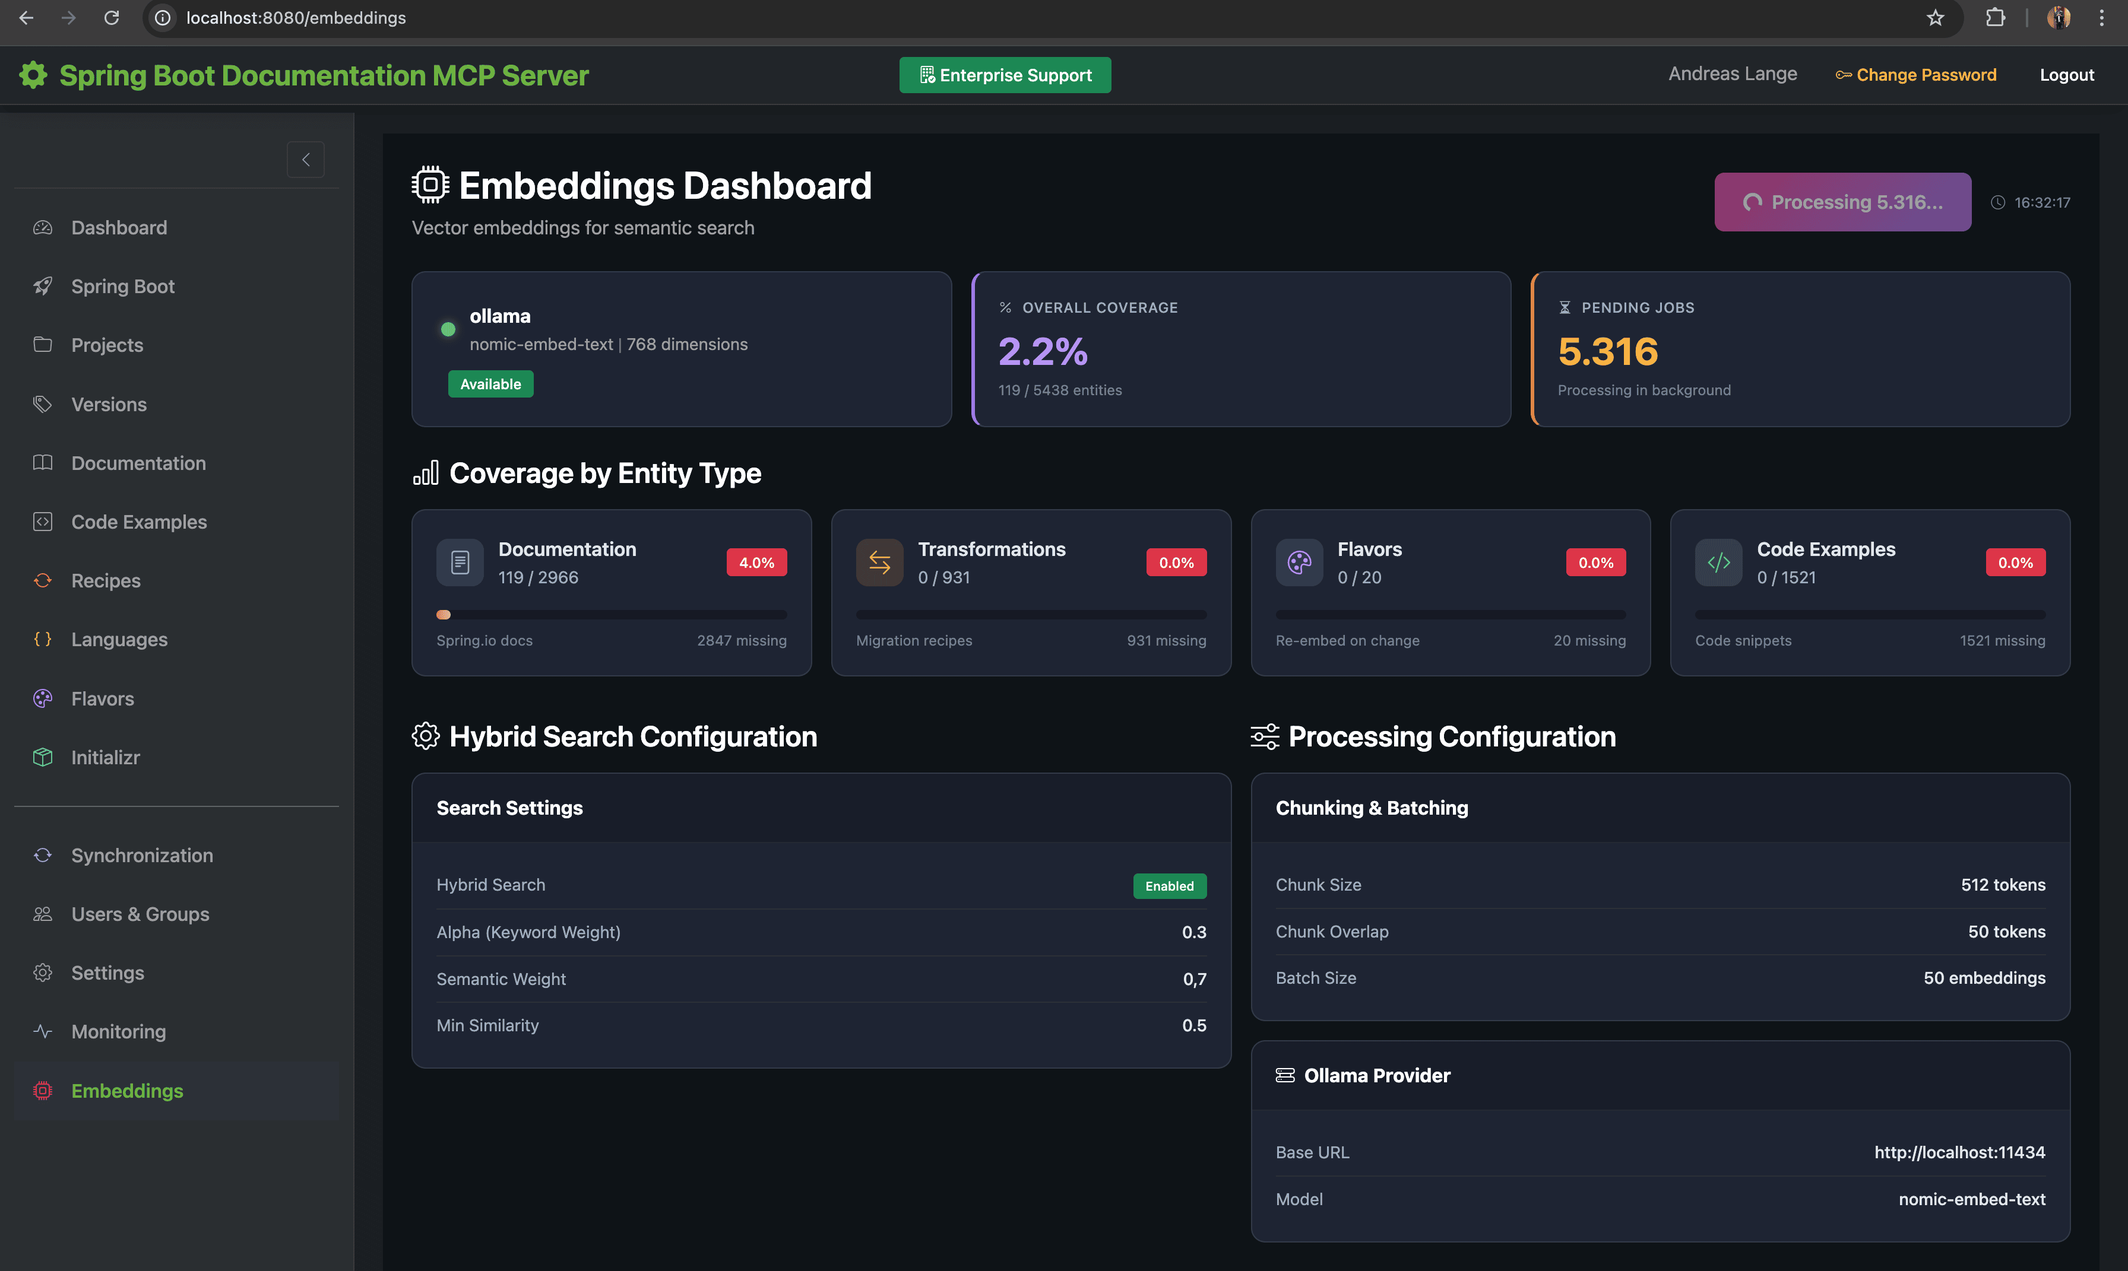
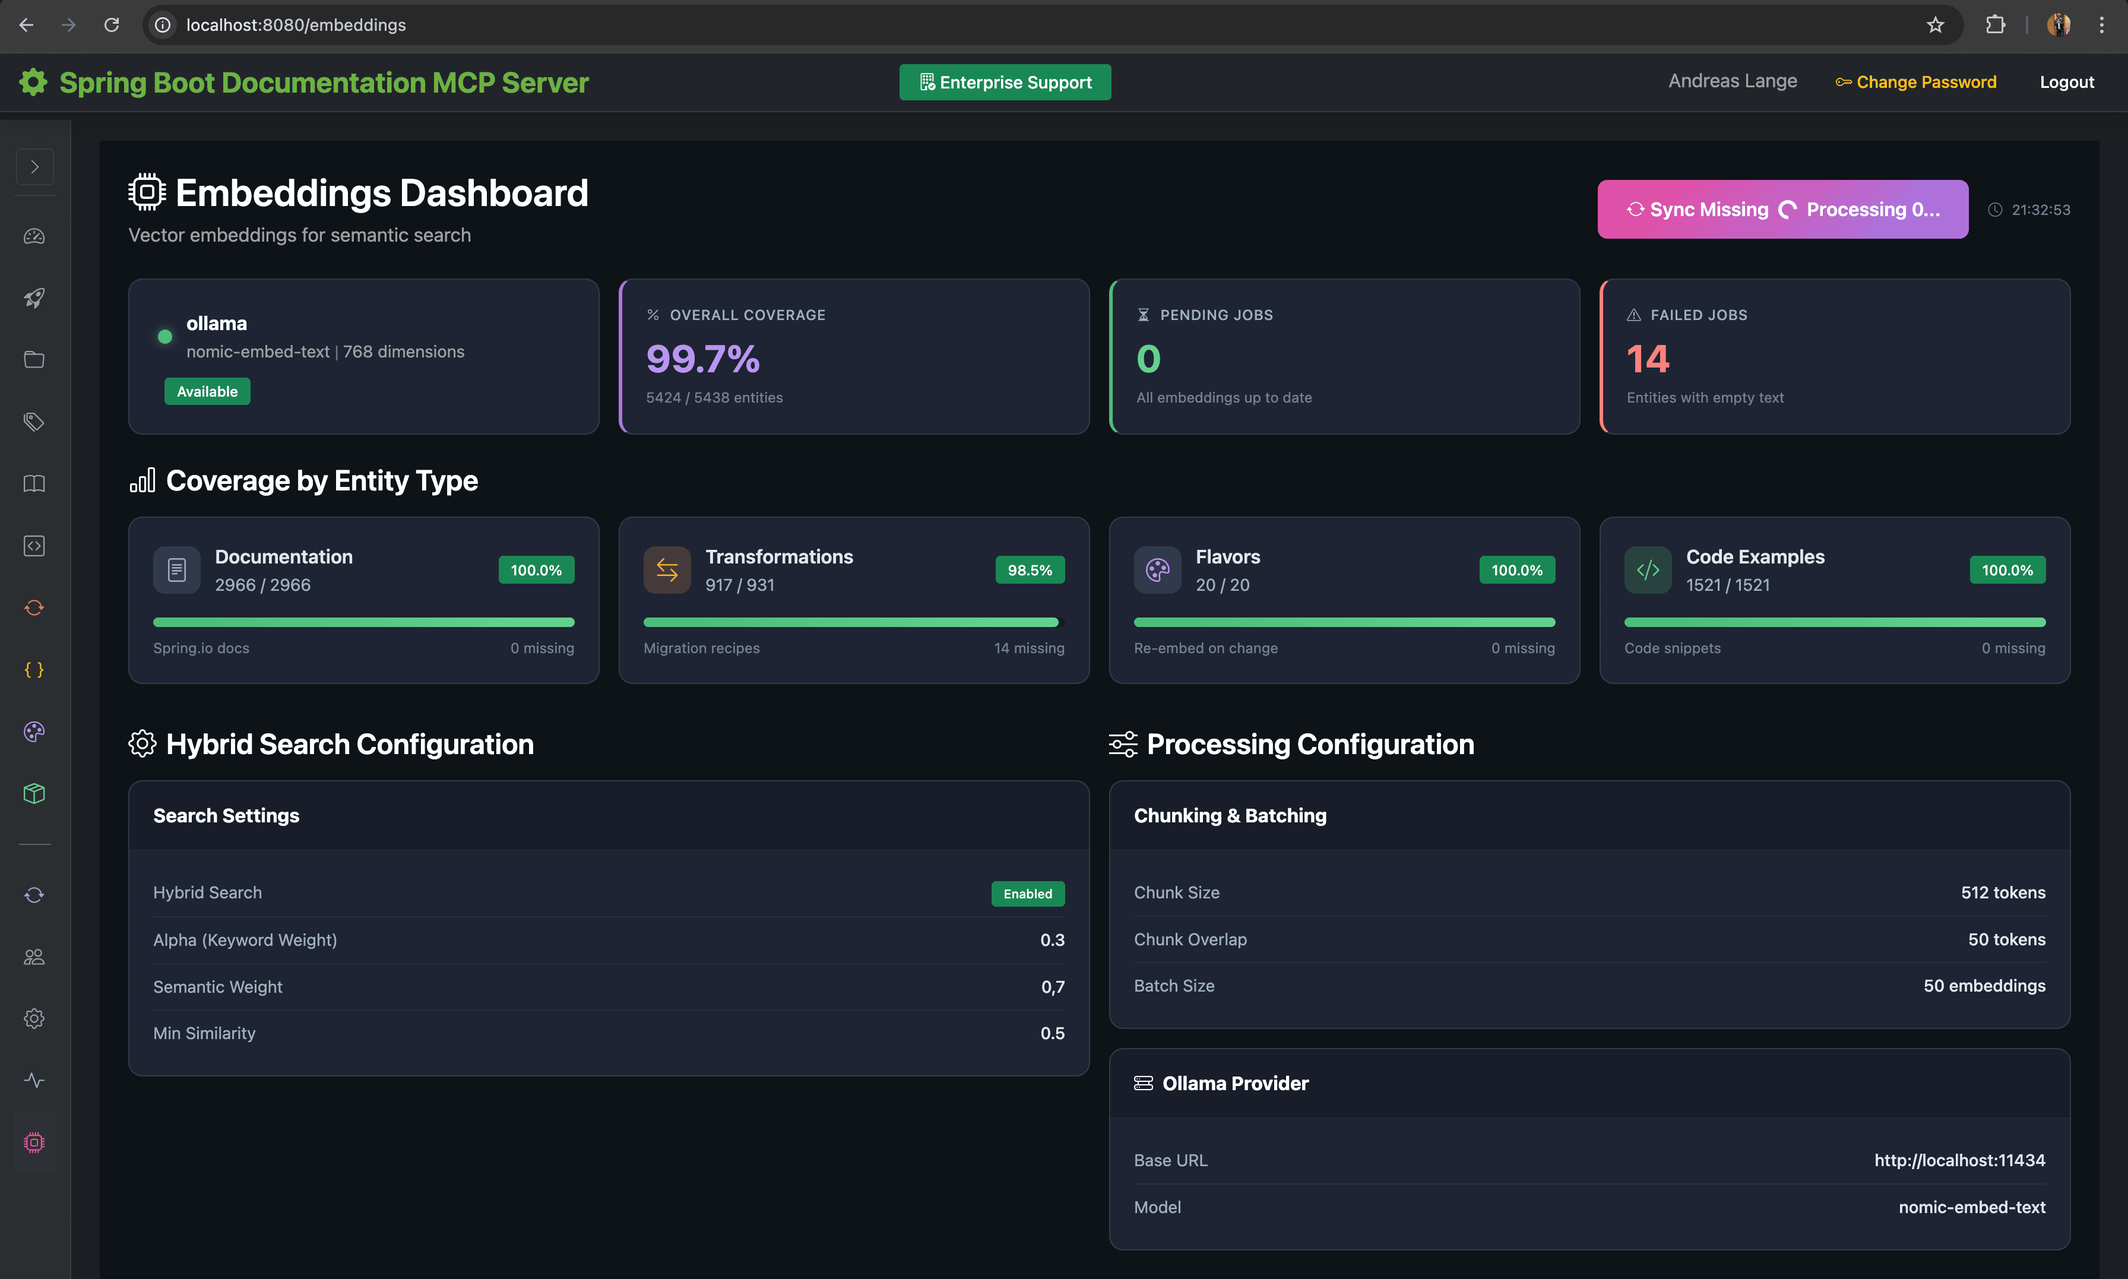
Release 1.6.0 - Semantic Embeddings & Hybrid Search
Major release introducing AI-powered semantic search capabilities with
  pgvector integration for intelligent documentation discovery.

  FEATURES:
  - Semantic Embeddings with pgvector for vector similarity search
  - Hybrid Search combining PostgreSQL full-text (TSVECTOR) with vectors
  - Ollama & OpenAI embedding provider support
  - Embeddings Dashboard with real-time coverage statistics
  - Async Job Processing with per-job transactions for reliability
  - Intelligent Text Chunking for large documentation

  ENHANCEMENTS:
  - searchMigrationKnowledge uses hybrid search when enabled
  - searchFlavors uses hybrid search when enabled
  - searchJavadocs improved multi-word AND logic with relevance scoring
  - Sync page retrigger protection while jobs are running
  - Ollama 120s read timeout for large embedding requests
  - Startup recovery resets interrupted jobs to PENDING

  DATABASE:
  - V21__pgvector_extension.sql: pgvector, embedding columns, job queue
  - V22__pgvector_indexes.sql: HNSW vector similarity indexes

  CONFIGURATION:
  - mcp.features.embeddings.enabled=true to activate
  - Provider: ollama (nomic-embed-text) or openai (text-embedding-3-small)
  - Hybrid alpha: 0.3 = 70% semantic, 30% keyword by default

  🤖 Generated with [Claude Code](https://claude.com/claude-code)

diff --git a/src/main/resources/templates/fragments/sidebar.html b/src/main/resources/templates/fragments/sidebar.html
@@ -12,56 +12,56 @@
         </div>
         <ul class="nav flex-column">
             <li class="nav-item">
-                <a class="nav-link" th:href="@{/dashboard}" th:classappend="${activePage == 'dashboard'} ? 'active' : ''">
+                <a class="nav-link" th:href="@{/dashboard}" th:classappend="${activePage == 'dashboard'} ? 'active' : ''" data-sidebar-tooltip="Dashboard">
                     <i class="bi bi-speedometer2"></i><span class="nav-text">Dashboard</span>
                 </a>
             </li>
             <li class="nav-item">
-                <a class="nav-link" th:href="@{/spring-boot}" th:classappend="${activePage == 'spring-boot'} ? 'active' : ''">
+                <a class="nav-link" th:href="@{/spring-boot}" th:classappend="${activePage == 'spring-boot'} ? 'active' : ''" data-sidebar-tooltip="Spring Boot">
                     <i class="bi bi-rocket-takeoff"></i><span class="nav-text">Spring Boot</span>
                 </a>
             </li>
             <li class="nav-item">
-                <a class="nav-link" th:href="@{/projects}" th:classappend="${activePage == 'projects'} ? 'active' : ''">
+                <a class="nav-link" th:href="@{/projects}" th:classappend="${activePage == 'projects'} ? 'active' : ''" data-sidebar-tooltip="Projects">
                     <i class="bi bi-folder"></i><span class="nav-text">Projects</span>
                 </a>
             </li>
             <li class="nav-item">
-                <a class="nav-link" th:href="@{/versions}" th:classappend="${activePage == 'versions'} ? 'active' : ''">
+                <a class="nav-link" th:href="@{/versions}" th:classappend="${activePage == 'versions'} ? 'active' : ''" data-sidebar-tooltip="Versions">
                     <i class="bi bi-tags"></i><span class="nav-text">Versions</span>
                 </a>
             </li>
             <li class="nav-item">
-                <a class="nav-link" th:href="@{/documentation}" th:classappend="${activePage == 'documentation'} ? 'active' : ''">
+                <a class="nav-link" th:href="@{/documentation}" th:classappend="${activePage == 'documentation'} ? 'active' : ''" data-sidebar-tooltip="Documentation">
                     <i class="bi bi-book"></i><span class="nav-text">Documentation</span>
                 </a>
             </li>
             <li class="nav-item">
-                <a class="nav-link" th:href="@{/examples}" th:classappend="${activePage == 'examples'} ? 'active' : ''">
+                <a class="nav-link" th:href="@{/examples}" th:classappend="${activePage == 'examples'} ? 'active' : ''" data-sidebar-tooltip="Code Examples">
                     <i class="bi bi-code-square"></i><span class="nav-text">Code Examples</span>
                 </a>
             </li>
             <!-- OpenRewrite Recipes (conditional) -->
             <li class="nav-item" th:if="${openRewriteEnabled}">
-                <a class="nav-link" th:href="@{/recipes}" th:classappend="${activePage == 'recipes'} ? 'active' : ''">
+                <a class="nav-link" th:href="@{/recipes}" th:classappend="${activePage == 'recipes'} ? 'active' : ''" data-sidebar-tooltip="Recipes">
                     <i class="bi bi-arrow-repeat" style="color: #f97316;"></i><span class="nav-text">Recipes</span>
                 </a>
             </li>
             <!-- Language Evolution (conditional) -->
             <li class="nav-item" th:if="${languageEvolutionEnabled}">
-                <a class="nav-link" th:href="@{/languages}" th:classappend="${activePage == 'languages'} ? 'active' : ''">
+                <a class="nav-link" th:href="@{/languages}" th:classappend="${activePage == 'languages'} ? 'active' : ''" data-sidebar-tooltip="Languages">
                     <i class="bi bi-braces" style="color: #fbbf24;"></i><span class="nav-text">Languages</span>
                 </a>
             </li>
             <!-- Flavors (conditional) -->
             <li class="nav-item" th:if="${flavorsEnabled}">
-                <a class="nav-link" th:href="@{/flavors}" th:classappend="${activePage == 'flavors'} ? 'active' : ''">
+                <a class="nav-link" th:href="@{/flavors}" th:classappend="${activePage == 'flavors'} ? 'active' : ''" data-sidebar-tooltip="Flavors">
                     <i class="bi bi-palette" style="color: #a78bfa;"></i><span class="nav-text">Flavors</span>
                 </a>
             </li>
             <!-- Spring Initializr (conditional) -->
             <li class="nav-item" th:if="${initializrEnabled}">
-                <a class="nav-link" th:href="@{/initializr}" th:classappend="${activePage == 'initializr'} ? 'active' : ''">
+                <a class="nav-link" th:href="@{/initializr}" th:classappend="${activePage == 'initializr'} ? 'active' : ''" data-sidebar-tooltip="Initializr">
                     <i class="bi bi-box-seam" style="color: #6ee7b7;"></i><span class="nav-text">Initializr</span>
                 </a>
             </li>
@@ -70,28 +70,28 @@
 
             <!-- Admin Only -->
             <li class="nav-item" sec:authorize="hasRole('ADMIN')">
-                <a class="nav-link" th:href="@{/sync}" th:classappend="${activePage == 'sync'} ? 'active' : ''">
+                <a class="nav-link" th:href="@{/sync}" th:classappend="${activePage == 'sync'} ? 'active' : ''" data-sidebar-tooltip="Synchronization">
                     <i class="bi bi-arrow-repeat" style="color: #60a5fa;"></i><span class="nav-text">Synchronization</span>
                 </a>
             </li>
             <li class="nav-item" sec:authorize="hasRole('ADMIN')">
-                <a class="nav-link" th:href="@{/users}" th:classappend="${activePage == 'users' or activePage == 'groups'} ? 'active' : ''">
+                <a class="nav-link" th:href="@{/users}" th:classappend="${activePage == 'users' or activePage == 'groups'} ? 'active' : ''" data-sidebar-tooltip="Users & Groups">
                     <i class="bi bi-people"></i><span class="nav-text">Users & Groups</span>
                 </a>
             </li>
             <li class="nav-item" sec:authorize="hasRole('ADMIN')">
-                <a class="nav-link" th:href="@{/settings}" th:classappend="${activePage == 'settings'} ? 'active' : ''">
+                <a class="nav-link" th:href="@{/settings}" th:classappend="${activePage == 'settings'} ? 'active' : ''" data-sidebar-tooltip="Settings">
                     <i class="bi bi-gear"></i><span class="nav-text">Settings</span>
                 </a>
             </li>
             <li class="nav-item" sec:authorize="hasRole('ADMIN')">
-                <a class="nav-link" th:href="@{/monitoring}" th:classappend="${activePage == 'monitoring'} ? 'active' : ''">
+                <a class="nav-link" th:href="@{/monitoring}" th:classappend="${activePage == 'monitoring'} ? 'active' : ''" data-sidebar-tooltip="Monitoring">
                     <i class="bi bi-activity" style="color: #63b3ed;"></i><span class="nav-text">Monitoring</span>
                 </a>
             </li>
             <!-- Embeddings (conditional) -->
             <li class="nav-item" sec:authorize="hasRole('ADMIN')" th:if="${embeddingsEnabled}">
-                <a class="nav-link" th:href="@{/embeddings}" th:classappend="${activePage == 'embeddings'} ? 'active' : ''">
+                <a class="nav-link" th:href="@{/embeddings}" th:classappend="${activePage == 'embeddings'} ? 'active' : ''" data-sidebar-tooltip="Embeddings">
                     <i class="bi bi-cpu" style="color: #ec4899;"></i><span class="nav-text">Embeddings</span>
                 </a>
             </li>

diff --git a/src/main/resources/templates/embeddings/index.html b/src/main/resources/templates/embeddings/index.html
@@ -280,10 +280,11 @@
         </div>
     </div>
 
-    <!-- Provider Status Row -->
+    <!-- Stats Row - 4 cards in one line -->
     <div class="row g-3 mb-4">
-        <div class="col-md-4">
-            <div class="provider-card">
+        <!-- Provider Status -->
+        <div class="col-6 col-md-3">
+            <div class="provider-card h-100">
                 <div class="provider-status">
                     <div class="provider-status-dot" :class="stats.providerAvailable ? 'available' : 'unavailable'"></div>
                     <div>
@@ -302,8 +303,9 @@
             </div>
         </div>
 
-        <div class="col-md-4">
-            <div class="metric-card purple">
+        <!-- Overall Coverage -->
+        <div class="col-6 col-md-3">
+            <div class="metric-card purple h-100">
                 <div class="metric-label">
                     <i class="bi bi-percent me-1"></i> Overall Coverage
                 </div>
@@ -312,8 +314,9 @@
             </div>
         </div>
 
-        <div class="col-md-4">
-            <div class="metric-card" :class="stats.pendingJobs > 0 ? 'warning' : 'success'">
+        <!-- Pending Jobs -->
+        <div class="col-6 col-md-3">
+            <div class="metric-card h-100" :class="stats.pendingJobs > 0 ? 'warning' : 'success'">
                 <div class="metric-label">
                     <i class="bi bi-hourglass-split me-1"></i> Pending Jobs
                 </div>
@@ -321,6 +324,19 @@
                      x-text="stats.pendingJobs.toLocaleString()">0</div>
                 <div class="metric-subtitle" x-show="stats.pendingJobs > 0">Processing in background</div>
                 <div class="metric-subtitle" x-show="stats.pendingJobs === 0">All embeddings up to date</div>
+            </div>
+        </div>
+
+        <!-- Failed Jobs -->
+        <div class="col-6 col-md-3">
+            <div class="metric-card h-100" :class="stats.failedJobs > 0 ? 'danger' : 'success'">
+                <div class="metric-label">
+                    <i class="bi bi-exclamation-triangle me-1"></i> Failed Jobs
+                </div>
+                <div class="metric-value" :class="stats.failedJobs > 0 ? 'danger' : 'success'"
+                     x-text="stats.failedJobs.toLocaleString()">0</div>
+                <div class="metric-subtitle" x-show="stats.failedJobs > 0">Entities with empty text</div>
+                <div class="metric-subtitle" x-show="stats.failedJobs === 0">No failures</div>
             </div>
         </div>
     </div>
@@ -566,6 +582,7 @@
                     examplesTotal: initialStats.examplesTotal || 0,
                     examplesCoverage: initialStats.examplesCoverage || 0,
                     pendingJobs: initialStats.pendingJobs || 0,
+                    failedJobs: initialStats.failedJobs || 0,
                     totalWithEmbedding: initialStats.totalWithEmbedding || 0,
                     totalEntities: initialStats.totalEntities || 0,
                     overallCoverage: initialStats.overallCoverage || 0,
@@ -690,6 +707,7 @@
                             this.stats.examplesTotal = data.examplesTotal || 0;
                             this.stats.examplesCoverage = data.examplesCoverage || 0;
                             this.stats.pendingJobs = data.pendingJobs || 0;
+                            this.stats.failedJobs = data.failedJobs || 0;
                             this.stats.totalWithEmbedding = data.totalWithEmbedding || 0;
                             this.stats.totalEntities = data.totalEntities || 0;
                             this.stats.overallCoverage = data.overallCoverage || 0;

diff --git a/src/main/resources/static/css/custom.css b/src/main/resources/static/css/custom.css
@@ -914,6 +914,15 @@ code.bg-light {
     width: 60px !important;
     min-width: 60px !important;
     max-width: 60px !important;
+    overflow: visible !important; /* Allow tooltips to show outside sidebar */
+    z-index: 1050; /* Above main content for tooltips */
+}
+
+.sidebar.collapsed .nav,
+.sidebar.collapsed .nav-item,
+.sidebar.collapsed .position-sticky,
+.sidebar.collapsed > div {
+    overflow: visible !important;
 }
 
 .sidebar.collapsed .nav-text {
@@ -943,12 +952,13 @@ code.bg-light {
 }
 
 /* Tooltip for collapsed sidebar items */
-.sidebar.collapsed .nav-link {
+.sidebar.collapsed .nav-link[data-sidebar-tooltip] {
     position: relative;
+    overflow: visible;
 }
 
-.sidebar.collapsed .nav-link::after {
-    content: attr(data-title);
+.sidebar.collapsed .nav-link[data-sidebar-tooltip]::after {
+    content: attr(data-sidebar-tooltip);
     position: absolute;
     left: 100%;
     top: 50%;
@@ -961,14 +971,15 @@ code.bg-light {
     opacity: 0;
     visibility: hidden;
     transition: opacity 0.2s ease, visibility 0.2s ease;
-    z-index: 1000;
+    z-index: 9999;
     margin-left: 0.5rem;
     box-shadow: var(--shadow-md);
     border: 1px solid var(--spring-border-dark);
     font-size: 0.875rem;
+    pointer-events: none;
 }
 
-.sidebar.collapsed .nav-link:hover::after {
+.sidebar.collapsed .nav-link[data-sidebar-tooltip]:hover::after {
     opacity: 1;
     visibility: visible;
 }

diff --git a/src/main/resources/static/js/app.js b/src/main/resources/static/js/app.js
@@ -32,12 +32,15 @@ document.addEventListener('DOMContentLoaded', function() {
 
     if (!sidebar || !toggleBtn) return;
 
-    // Set data-title attributes for tooltips when collapsed
+    // Set data-sidebar-tooltip attributes for tooltips when collapsed
+    // (only if not already set in HTML)
     const navLinks = sidebar.querySelectorAll('.nav-link');
     navLinks.forEach(function(link) {
-        const navText = link.querySelector('.nav-text');
-        if (navText) {
-            link.setAttribute('data-title', navText.textContent.trim());
+        if (!link.hasAttribute('data-sidebar-tooltip')) {
+            const navText = link.querySelector('.nav-text');
+            if (navText) {
+                link.setAttribute('data-sidebar-tooltip', navText.textContent.trim());
+            }
         }
     });
 

diff --git a/src/test/java/com/spring/mcp/service/tools/JavadocToolsTest.java b/src/test/java/com/spring/mcp/service/tools/JavadocToolsTest.java
@@ -362,10 +362,10 @@ class JavadocToolsTest {
             // When - request 100 results
             List<JavadocSearchResult> results = javadocTools.searchJavadocs(null, null, "chat", 100);
 
-            // Then - should cap at 50
+            // Then - should cap at 50, but fetch double (100) for multi-word filtering
             ArgumentCaptor<Pageable> pageableCaptor = ArgumentCaptor.forClass(Pageable.class);
             verify(classRepository).searchByKeywordGlobalWithPackage(eq("chat"), pageableCaptor.capture());
-            assertThat(pageableCaptor.getValue().getPageSize()).isEqualTo(50);
+            assertThat(pageableCaptor.getValue().getPageSize()).isEqualTo(100); // 50 * 2 for filtering
         }
 
         @Test
@@ -381,10 +381,10 @@ class JavadocToolsTest {
             // When
             List<JavadocSearchResult> results = javadocTools.searchJavadocs(null, null, "chat", null);
 
-            // Then
+            // Then - defaults to 10, but fetches double (20) for multi-word filtering
             ArgumentCaptor<Pageable> pageableCaptor = ArgumentCaptor.forClass(Pageable.class);
             verify(classRepository).searchByKeywordGlobalWithPackage(eq("chat"), pageableCaptor.capture());
-            assertThat(pageableCaptor.getValue().getPageSize()).isEqualTo(10);
+            assertThat(pageableCaptor.getValue().getPageSize()).isEqualTo(20); // 10 * 2 for filtering
         }
 
         @Test

diff --git a/src/main/java/com/spring/mcp/service/embedding/EmbeddingSyncService.java b/src/main/java/com/spring/mcp/service/embedding/EmbeddingSyncService.java
@@ -206,6 +206,7 @@ public class EmbeddingSyncService {
         long examplesTotal = codeExampleRepository.count();
 
         long pendingJobs = embeddingJobRepository.countPendingAndRetryJobs();
+        long failedJobs = embeddingJobRepository.countByStatus(EmbeddingJob.JobStatus.FAILED);
 
         return new EmbeddingStats(
                 docsWithEmbedding, docsTotal,
@@ -213,6 +214,7 @@ public class EmbeddingSyncService {
                 flavorsWithEmbedding, flavorsTotal,
                 examplesWithEmbedding, examplesTotal,
                 pendingJobs,
+                failedJobs,
                 embeddingService.isAvailable(),
                 embeddingService.getProviderName(),
                 embeddingService.getModelName()
@@ -589,6 +591,7 @@ public class EmbeddingSyncService {
             long flavorsWithEmbedding, long flavorsTotal,
             long examplesWithEmbedding, long examplesTotal,
             long pendingJobs,
+            long failedJobs,
             boolean providerAvailable,
             String providerName,
             String modelName
